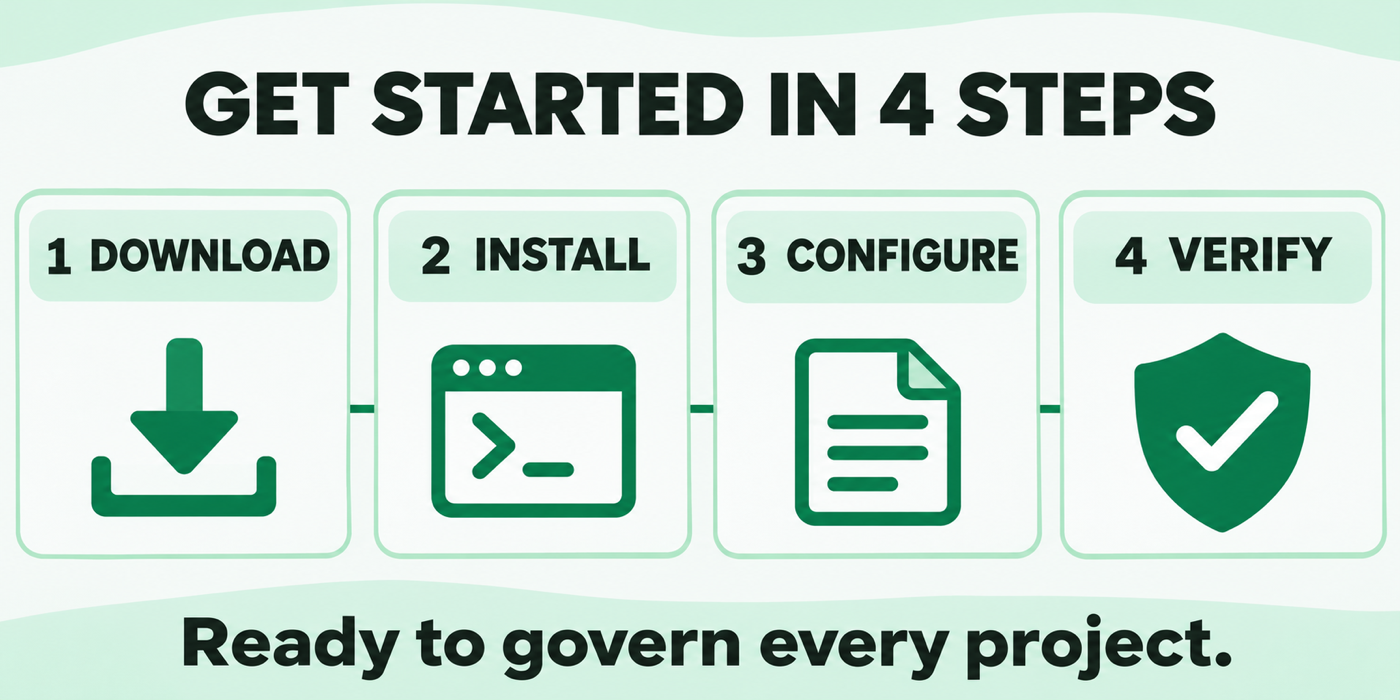
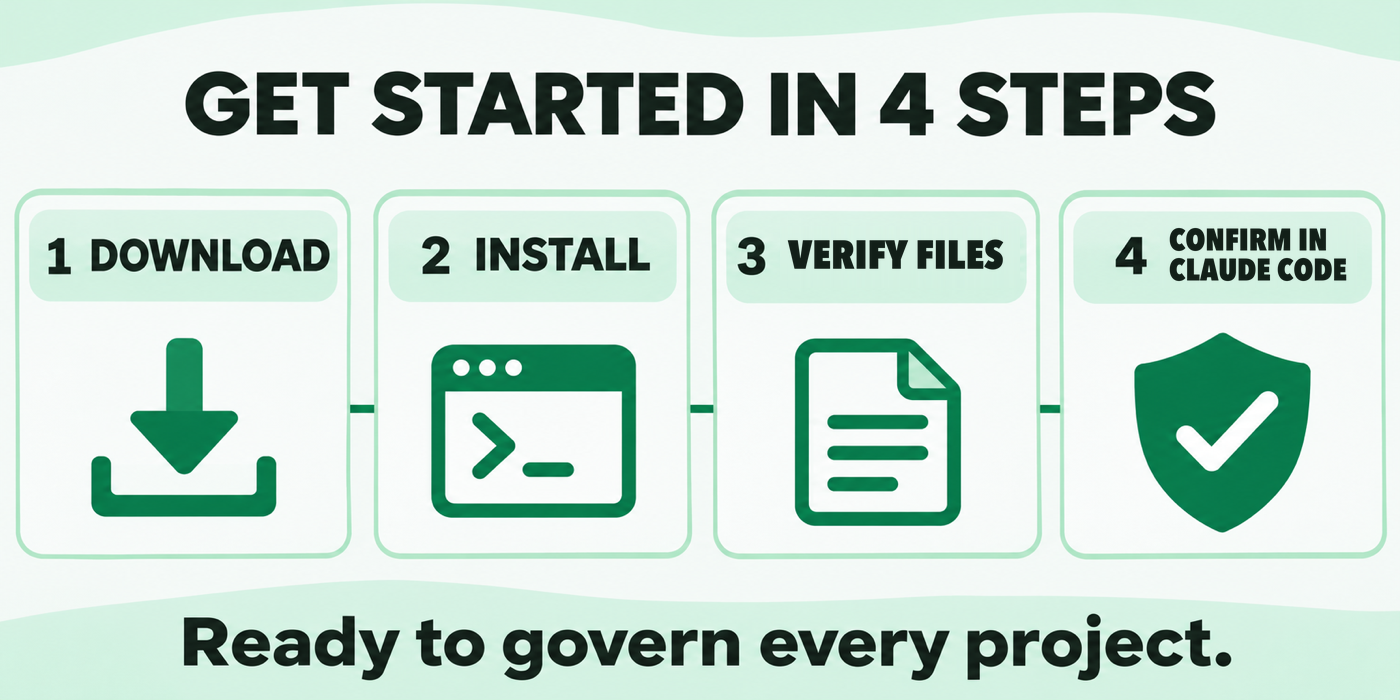
docs: finalize green visuals and optimize release packaging
- Installation graphic: labels 3/4 corrected to "3 VERIFY FILES" / "4 CONFIRM IN CLAUDE CODE"
- README: remove the obsolete label-mismatch caption
- make-release.py: lightweight install ZIP (branding omitted, own manifest,
  images linked online); applies to the next versioned release
- verify.py: check image references resolve

Changed region(s): [[0.8293, 0.3, 0.9829, 0.42], [0.5529, 0.33, 0.7371, 0.39]]

diff --git a/tools/make-release.py b/tools/make-release.py
@@ -1,16 +1,25 @@
 #!/usr/bin/env python3
-"""Maintainer tool: regenerate RELEASE-MANIFEST.json (and optionally the ZIP).
+"""Maintainer tool: regenerate RELEASE-MANIFEST.json (and optionally the lightweight install ZIP).
 
-  python3 tools/make-release.py              rewrite RELEASE-MANIFEST.json
-  python3 tools/make-release.py --zip OUT    also build OUT (zip, one top-level folder)
+  python3 tools/make-release.py              rewrite RELEASE-MANIFEST.json (describes the full Git tree)
+  python3 tools/make-release.py --zip OUT    also build OUT: one top-level folder, deterministic
 
-Deterministic (sorted, fixed timestamps). The manifest never hashes itself.
+The ZIP is a lightweight installation package: docs/assets/branding/ (decorative PNGs) is omitted, README.md and
+docs/INSTALLATION-GUIDE.md get their branding images replaced by links to the online copies, and the ZIP carries its own
+RELEASE-MANIFEST.json listing exactly what it contains. Git keeps everything. Manifests never hash themselves.
 """
-import hashlib, json, os, sys, zipfile
+import hashlib, json, os, re, sys, zipfile
 from pathlib import Path
 
 KIT = Path(__file__).resolve().parent.parent
 SKIP_DIRS = {".git", "__pycache__", "ai-governance-kit-backups"}
+ZIP_OMIT = "docs/assets/branding/"
+ONLINE = "https://github.com/infodhorvath-sudo/AI-GOVERNANCE-STARTER-KIT/blob/main/docs/assets/branding/"
+BRAND_IMG = re.compile(r"!\[([^\]]*)\]\((?:docs/)?assets/branding/([^)\s]+)\)")
+
+
+def sha(b):
+    return hashlib.sha256(b).hexdigest()
 
 
 def files():
@@ -18,21 +27,39 @@ def files():
                   and p.name not in (".DS_Store", "RELEASE-MANIFEST.json") and p.suffix not in (".pyc", ".zip"))
 
 
+def manifest(name_to_bytes, extra=None):
+    m = {"name": "AI-GOVERNANCE-STARTER-KIT", "version": (KIT / "VERSION").read_text().strip(),
+         "files": {k: sha(v) for k, v in name_to_bytes.items()}}
+    m.update(extra or {})
+    return (json.dumps(m, indent=2, sort_keys=True) + "\n").encode("utf-8")
+
+
+def zip_content(rel, data):
+    """Bytes as shipped in the ZIP: branding images become links to their online copies."""
+    if rel in ("README.md", "docs/INSTALLATION-GUIDE.md"):
+        text = BRAND_IMG.sub(lambda m: "*%s ([image online](%s%s))*" % (m.group(1), ONLINE, m.group(2)), data.decode("utf-8"))
+        return text.encode("utf-8")
+    return data
+
+
 def main():
     fl = files()
-    man = {"name": "AI-GOVERNANCE-STARTER-KIT", "version": (KIT / "VERSION").read_text().strip(),
-           "files": {p.relative_to(KIT).as_posix(): hashlib.sha256(p.read_bytes()).hexdigest() for p in fl}}
-    (KIT / "RELEASE-MANIFEST.json").write_text(json.dumps(man, indent=2, sort_keys=True) + "\n")
+    full = {p.relative_to(KIT).as_posix(): p.read_bytes() for p in fl}
+    (KIT / "RELEASE-MANIFEST.json").write_bytes(manifest(full))
     print("manifest: %d files" % len(fl))
     if "--zip" in sys.argv:
         out = Path(sys.argv[sys.argv.index("--zip") + 1])
+        shipped = {k: zip_content(k, v) for k, v in full.items() if not k.startswith(ZIP_OMIT)}
+        shipped["RELEASE-MANIFEST.json"] = manifest(
+            {k: v for k, v in shipped.items()},
+            {"package": "lightweight installation ZIP: decorative images omitted, see the Git repository"})
         with zipfile.ZipFile(out, "w", zipfile.ZIP_DEFLATED) as z:
-            for p in fl + [KIT / "RELEASE-MANIFEST.json"]:
-                zi = zipfile.ZipInfo("AI-GOVERNANCE-STARTER-KIT/" + p.relative_to(KIT).as_posix(), (2026, 11, 4, 0, 0, 0))
-                zi.external_attr = (0o755 if os.access(p, os.X_OK) else 0o644) << 16
+            for rel in sorted(shipped):
+                zi = zipfile.ZipInfo("AI-GOVERNANCE-STARTER-KIT/" + rel, (2026, 11, 4, 0, 0, 0))
+                zi.external_attr = (0o755 if os.access(KIT / rel, os.X_OK) else 0o644) << 16
                 zi.compress_type = zipfile.ZIP_DEFLATED
-                z.writestr(zi, p.read_bytes())
-        print("zip:", out)
+                z.writestr(zi, shipped[rel])
+        print("zip: %s (%d files, %d omitted)" % (out, len(shipped), len(full) - len(shipped) + 1))
 
 
 if __name__ == "__main__":

diff --git a/verify.py b/verify.py
@@ -112,6 +112,13 @@ def package():
     ga = KIT / ".gitattributes"
     if (KIT / ".git").exists() or ga.exists():
         check(ga.exists() and "eol=lf" in ga.read_text() and "png binary" in ga.read_text(), ".gitattributes forces LF for text and marks PNG binary")
+    broken = []
+    for md in ("README.md", "docs/INSTALLATION-GUIDE.md"):
+        base = (KIT / md).parent
+        for ref in re.findall(r"!\[[^\]]*\]\(([^)\s]+)\)", (KIT / md).read_text(encoding="utf-8")):
+            if not ref.startswith("http") and not (base / ref).exists():
+                broken.append("%s -> %s" % (md, ref))
+    check(not broken, "every image referenced by README and the installation guide exists %s" % (broken[:3] or ""))
     imports = [(p.name, l) for p in (KIT / "payload").rglob("*.md") for l in p.read_text(encoding="utf-8").splitlines()
                if l.startswith("@")]
     check(not imports, "payload files contain no @imports (no cycles / broken imports possible) %s" % (imports[:2] or ""))

diff --git a/CHANGELOG.md b/CHANGELOG.md
@@ -2,6 +2,15 @@
 
 Format: [Keep a Changelog](https://keepachangelog.com/). Versions follow [SemVer](https://semver.org/).
 
+## [Unreleased]
+Applies to the next versioned release.
+### Changed
+- Release ZIPs are now lightweight installation packages (about 60 KB instead of 4.4 MB): `docs/assets/branding/` is omitted, README/installation-guide images become links to their online copies, and the ZIP carries a manifest that lists exactly its own contents (`tools/make-release.py --zip`). Git keeps all images. The v1.0.0 and v1.0.1 ZIPs are unchanged.
+- Installation graphic labels corrected to match the real steps ("3 VERIFY FILES", "4 CONFIRM IN CLAUDE CODE").
+- `verify.py` also checks that every image referenced by README and the installation guide exists; `.gitattributes` marks PNG as binary.
+### Added
+- Green visual identity: hero, architecture, installation and setup-methods graphics in README and installation guide; social preview image.
+
 ## [1.0.1] - 2026-11-04
 ### Fixed
 - **Rules silently not loaded when the Claude config path contains a space** (typical for Windows profile folders that contain a space): the managed `@import` was an absolute path and a space ended it. The import now uses the documented `~/` form under the home folder (verified in Claude Code with spaces and Unicode) and a backslash-escaped absolute path elsewhere. Existing installs are migrated in place by the next `install.py`.

diff --git a/README.md b/README.md
@@ -9,9 +9,7 @@ Latest stable release: **v1.0.1** (see [CHANGELOG](CHANGELOG.md); `main` may be 
 A portable, open-source governance foundation for Claude Code and AI-assisted software development.
 
 ## Get started in 4 steps
-![Four-step installation workflow: get the kit, install, verify, and use with Claude Code.](docs/assets/branding/ai-governance-installation.png)
-
-*Simplified overview. Its labels map to the steps below: "Download" = step 1, "Install" = step 2 (dry run first), "Verify" = steps 3 and 4. There is no manual "configure" step: the installer configures Claude Code for you.*
+![Four-step installation workflow: get the kit, install, verify the installed files, and confirm the rules in Claude Code.](docs/assets/branding/ai-governance-installation.png)
 
 **You need:** Python 3.8+ (`python3 --version`, Windows `py -3 --version`), Git (only to clone), and Claude Code in VS Code (only for step 4).
 **Cloning does not activate anything.** Rules become active when you run `install.py` and start a new Claude Code session.

diff --git a/CONTRIBUTING.md b/CONTRIBUTING.md
@@ -9,7 +9,7 @@ Open an issue (templates provided). For bugs include OS, Python version, the com
 ## Pull requests
 1. Fork, create a branch, keep the change small and on one topic.
 2. Run `python3 verify.py` (must show 0 FAIL).
-3. If you changed any shipped file: `python3 tools/make-release.py` to refresh `RELEASE-MANIFEST.json`, and commit it.
+3. If you changed any shipped file: `python3 tools/make-release.py` to refresh `RELEASE-MANIFEST.json`, and commit it. Maintainers build the lightweight install ZIP with `python3 tools/make-release.py --zip OUT` (decorative images omitted, own manifest).
 4. Describe what changed and how you tested it.
 
 ## Expectations
